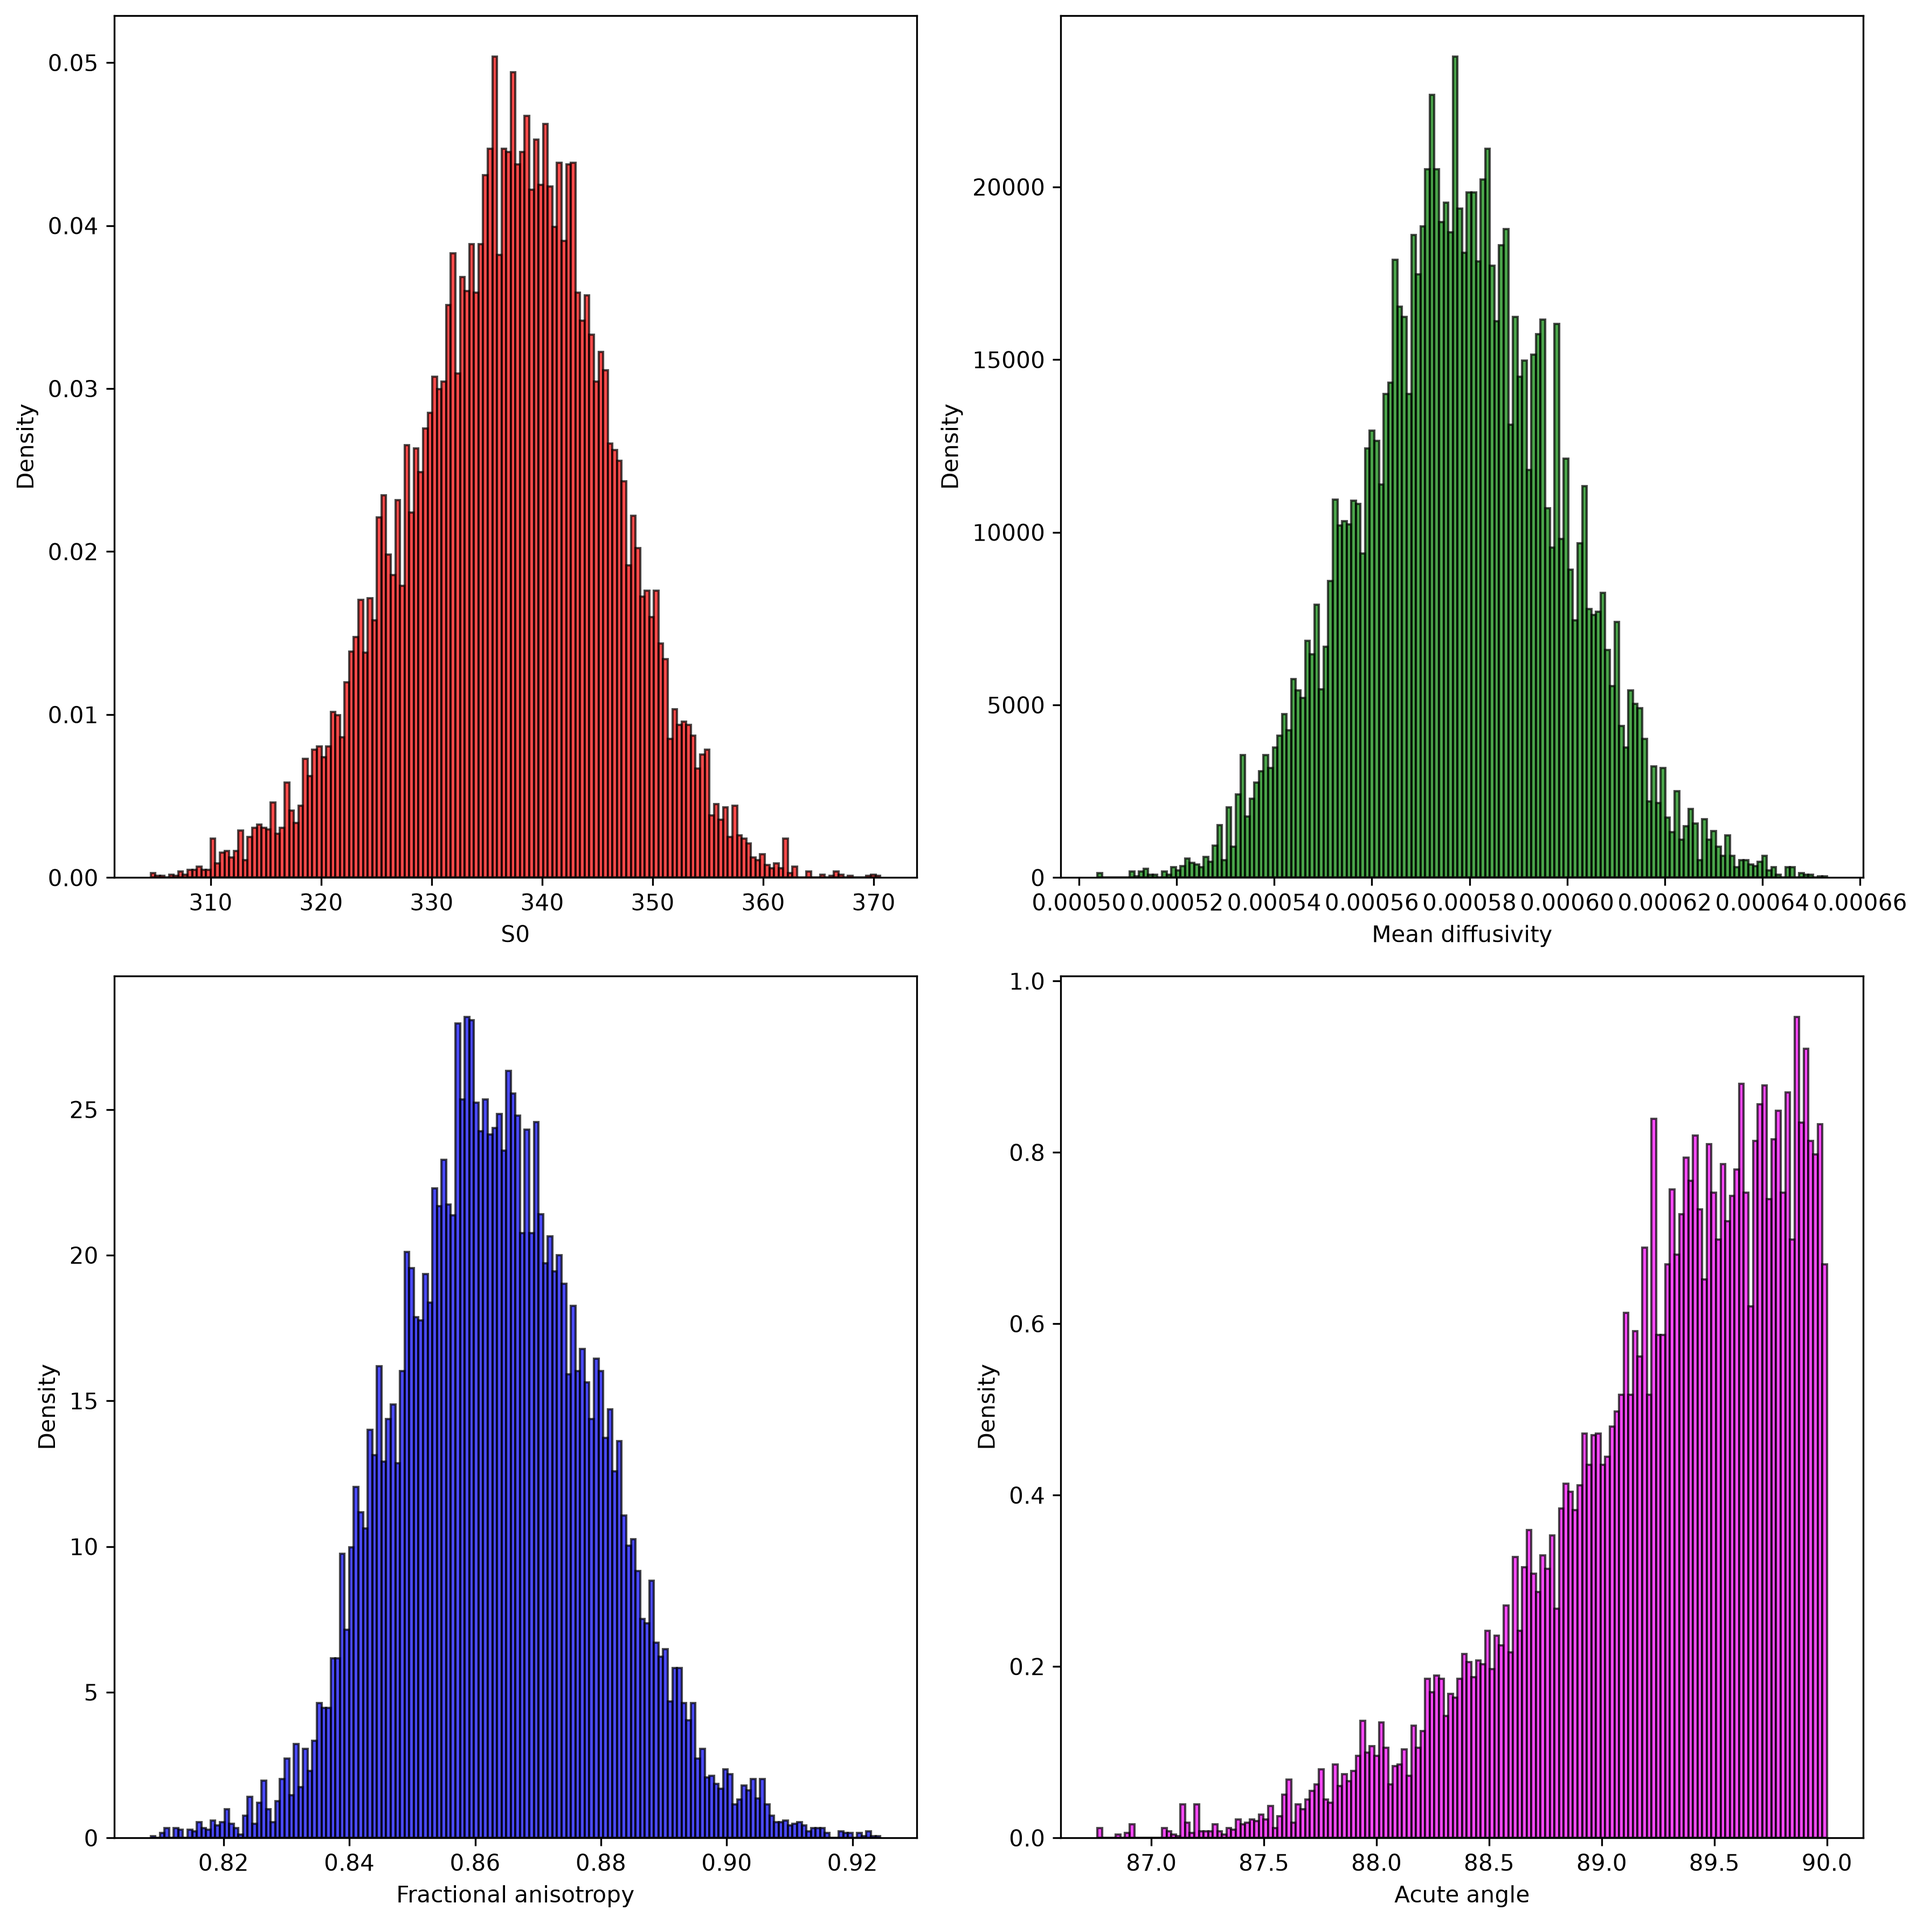
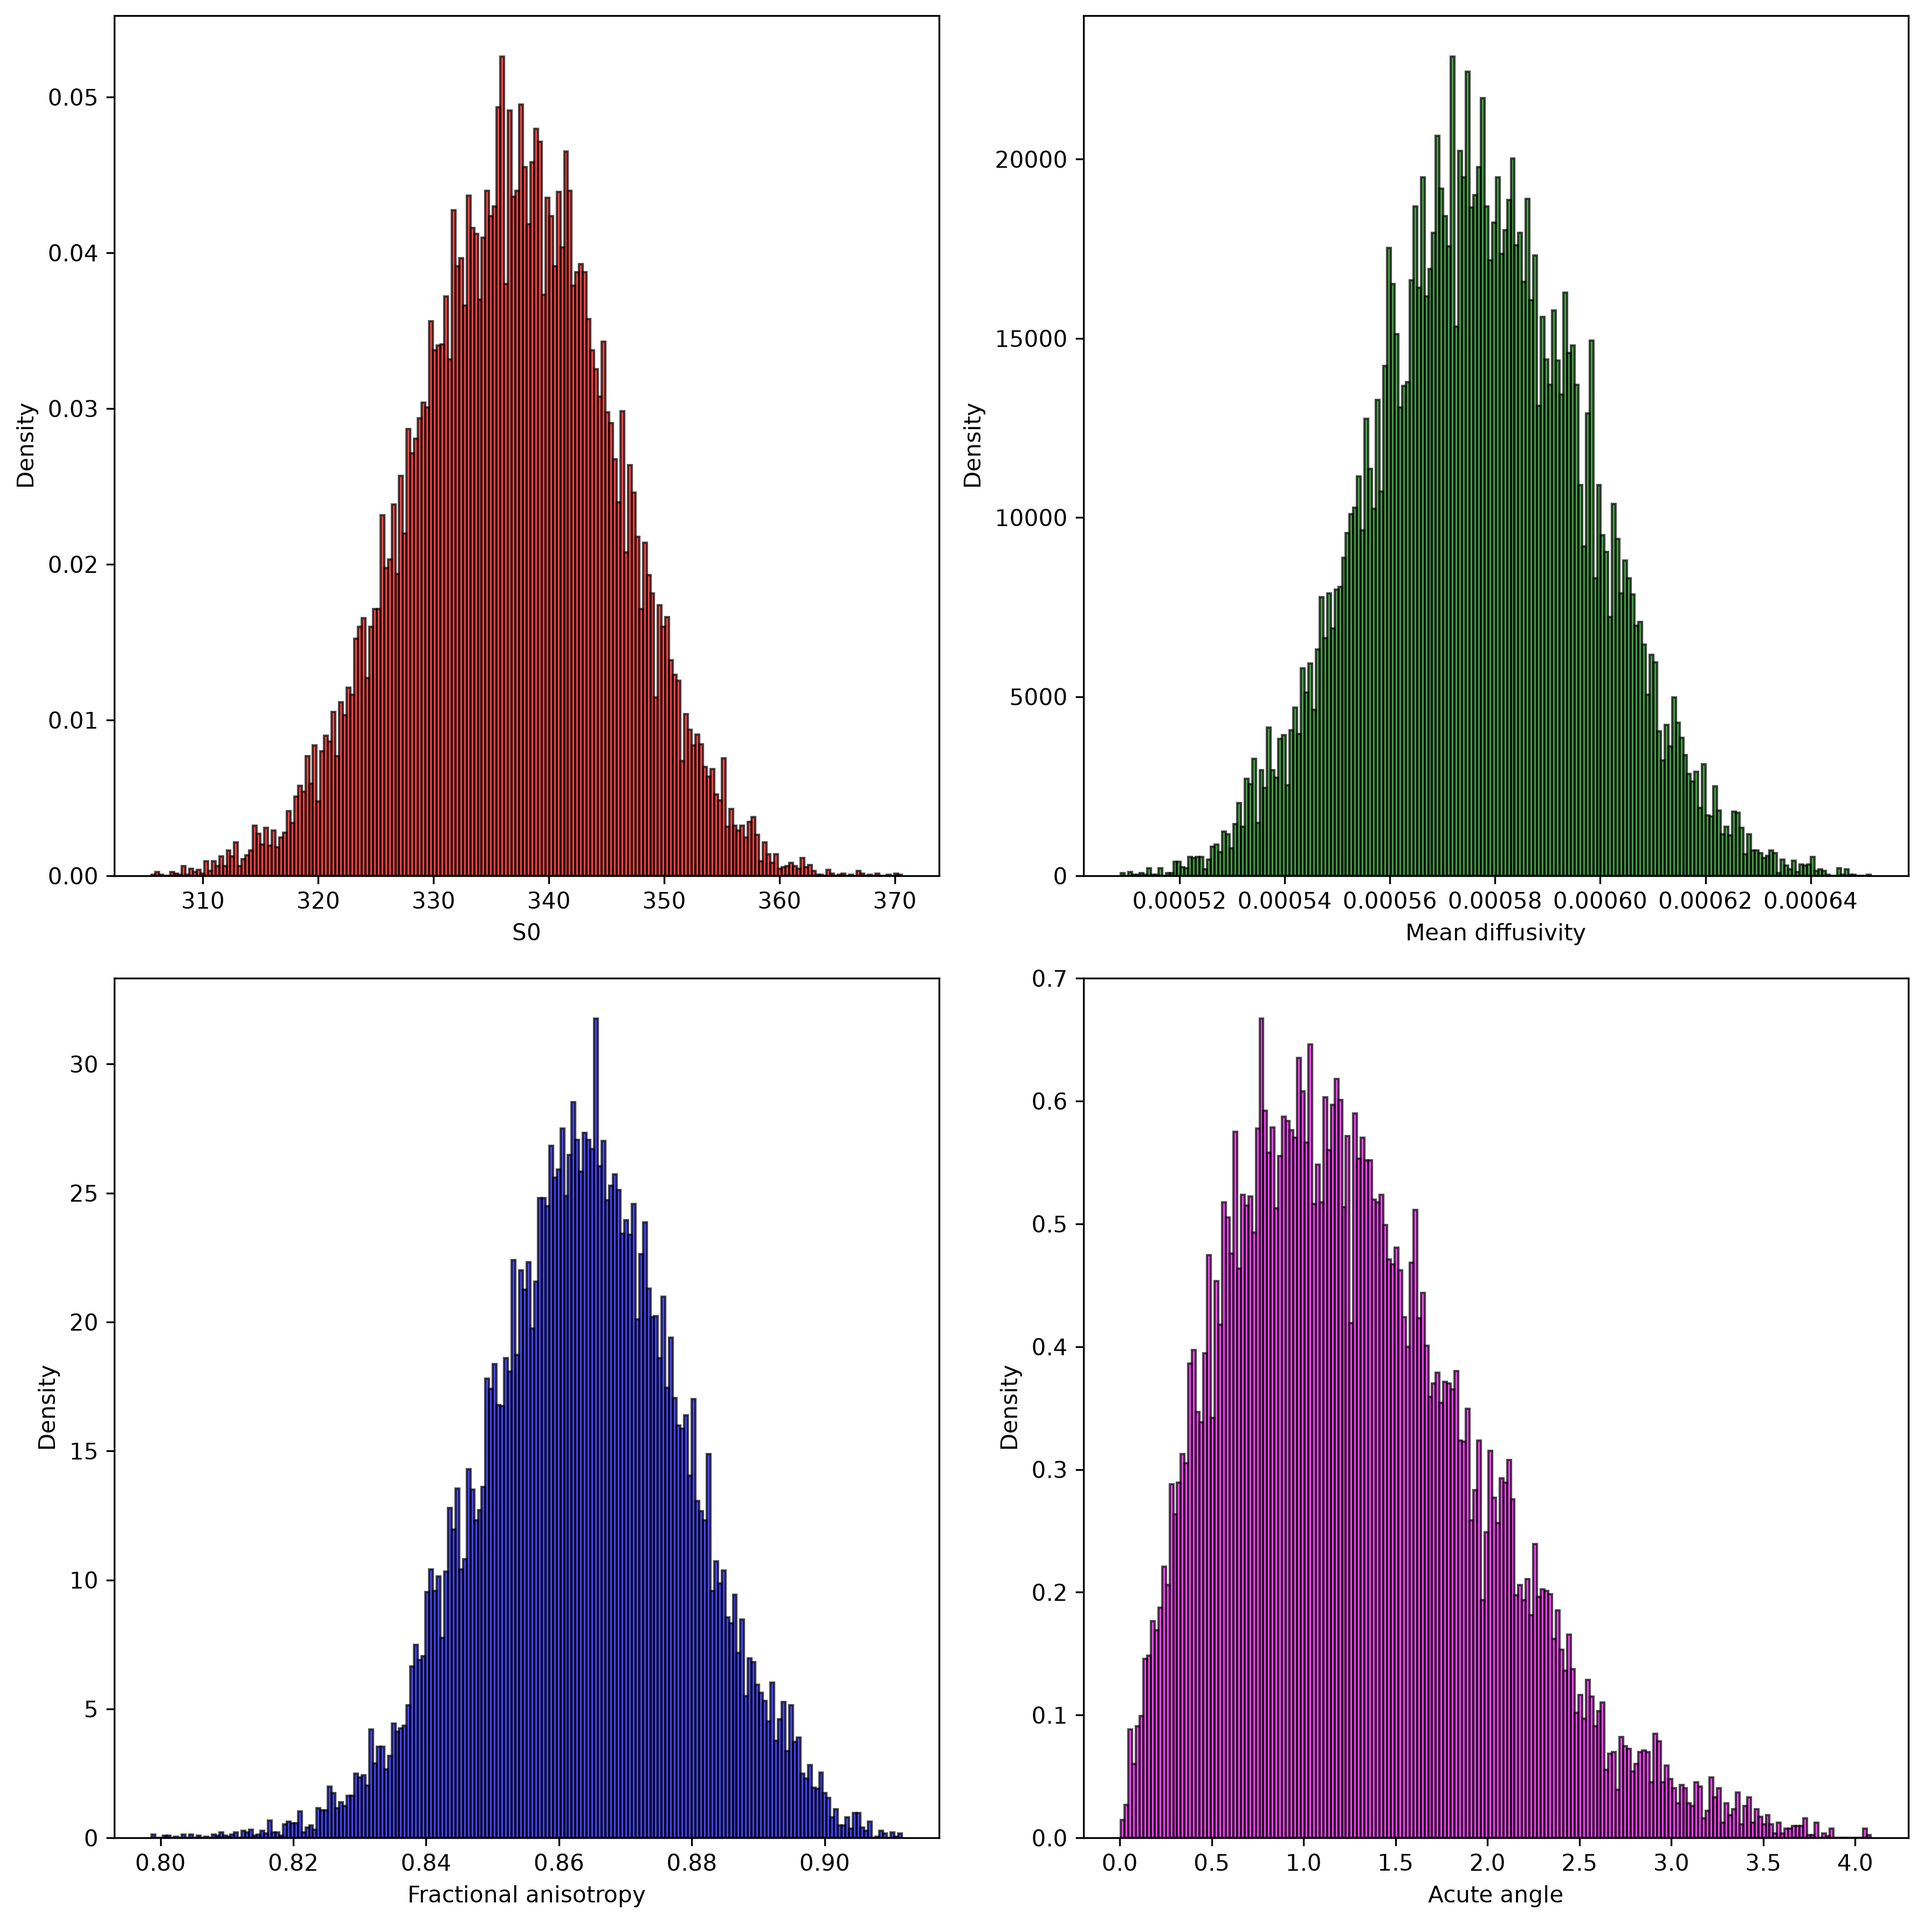
changed some parameters and added preprocessing code

diff --git a/preprocessing_apml.py b/preprocessing_apml.py
@@ -1,0 +1,189 @@
+"""
+Initial data exploration for the APML diffusion MRI project.
+
+This script:
+1. Loads the MRI measurements from one voxel.
+2. Inspects the provided DTI point estimate.
+3. Constructs and checks the diffusion tensor.
+4. Connects the gradient information to x in the model.
+5. Predicts the MRI signals using the point estimate.
+6. Compares the predictions with the measured signals.
+"""
+
+import numpy as np
+import matplotlib.pyplot as plt
+
+from dmri_project import get_preprocessed_data, compute_D
+
+
+# ============================================================
+# 1. Load the data
+# ============================================================
+
+y, point_estimate, gtab = get_preprocessed_data()
+
+print("\n--- DATASET ---")
+print("Number of MRI measurements:", len(y))
+print("Shape of y:", y.shape)
+print("First ten measured signals:")
+print(y[:10])
+
+
+# ============================================================
+# 2. Inspect the provided point estimate
+# ============================================================
+
+S0_init, evals_init, evecs_init = point_estimate
+
+print("\n--- INITIAL POINT ESTIMATE ---")
+print("Initial S0:")
+print(S0_init)
+
+print("\nEigenvalues:")
+print(evals_init)
+
+print("\nEigenvectors:")
+print(evecs_init)
+
+
+# ============================================================
+# 3. Construct the diffusion tensor
+#
+# D = V Lambda V^T
+# ============================================================
+
+D_init = compute_D(evals_init, evecs_init).squeeze()
+
+print("\n--- DIFFUSION TENSOR ---")
+print("Initial diffusion tensor D:")
+print(D_init)
+
+print("\nShape of D:", D_init.shape)
+print("Is D symmetric?", np.allclose(D_init, D_init.T))
+
+D_eigenvalues = np.linalg.eigvalsh(D_init)
+
+print("Eigenvalues calculated from D:")
+print(D_eigenvalues)
+
+print("Are all eigenvalues positive?", np.all(D_eigenvalues > 0))
+
+
+# ============================================================
+# 4. Inspect the MRI measurement settings
+# ============================================================
+
+print("\n--- MEASUREMENT SETTINGS ---")
+print("Shape of b-values:", gtab.bvals.shape)
+print("Shape of b-vectors:", gtab.bvecs.shape)
+
+print("\nFirst 20 b-values:")
+print(gtab.bvals[:20])
+
+print("\nFirst five b-vectors:")
+print(gtab.bvecs[:5])
+
+
+# ============================================================
+# 5. Construct q
+#
+# q corresponds to x in the equation:
+#
+# S(x) = S0 * exp(-x^T D x)
+# ============================================================
+
+q = np.sqrt(gtab.bvals[:, None]) * gtab.bvecs
+
+print("\n--- MODEL INPUT q ---")
+print("Shape of q:", q.shape)
+print("First five rows of q:")
+print(q[:5])
+
+
+# ============================================================
+# 6. Predict all 160 MRI signals
+# ============================================================
+
+quadratic_terms = np.einsum(
+    "ni,ij,nj->n",
+    q,
+    D_init,
+    q,
+)
+
+predicted_y = S0_init * np.exp(-quadratic_terms)
+
+print("\n--- PREDICTED SIGNALS ---")
+print("Shape of predicted_y:", predicted_y.shape)
+
+print("\nFirst ten measured signals:")
+print(y[:10])
+
+print("\nFirst ten predicted signals:")
+print(predicted_y[:10])
+
+
+# ============================================================
+# 7. Inspect measurements with nonzero diffusion weighting
+# ============================================================
+
+nonzero_indices = np.where(gtab.bvals > 0)[0]
+selected_indices = nonzero_indices[:10]
+
+print("\n--- FIRST TEN DIFFUSION-WEIGHTED MEASUREMENTS ---")
+print("Measurement indices:")
+print(selected_indices)
+
+print("\nb-values:")
+print(gtab.bvals[selected_indices])
+
+print("\nMeasured signals:")
+print(y[selected_indices])
+
+print("\nPredicted signals:")
+print(predicted_y[selected_indices])
+
+
+# ============================================================
+# 8. Calculate simple prediction errors
+# ============================================================
+
+errors = y - predicted_y
+
+mean_error = np.mean(errors)
+rmse = np.sqrt(np.mean(errors**2))
+
+print("\n--- PREDICTION ERRORS ---")
+print("Mean error:", mean_error)
+print("Root mean squared error:", rmse)
+print("Assumed noise standard deviation:", 29)
+
+
+# ============================================================
+# 9. Plot measured and predicted signals
+# ============================================================
+
+plt.figure(figsize=(11, 5))
+
+plt.plot(
+    y,
+    "o",
+    markersize=4,
+    alpha=0.7,
+    label="Measured signal",
+)
+
+plt.plot(
+    predicted_y,
+    "-",
+    linewidth=2,
+    label="Predicted signal",
+)
+
+plt.xlabel("Measurement number")
+plt.ylabel("MRI signal")
+plt.title("Measured and predicted MRI signals")
+plt.legend()
+plt.grid(alpha=0.2)
+plt.tight_layout()
+plt.show()

diff --git a/dmri_project.py b/dmri_project.py
@@ -733,7 +733,7 @@ def main():
     # Run Metropolis–Hastings and plot results
     #S0_mh, evals_mh, evecs_mh = metropolis_hastings(force_recompute=False)
     S0_mh, evals_mh, evecs_mh = metropolis_hastings(
-    n_samples=30000,
+    n_samples=50000,
     point_estimate=point_estimate,
     prior=prior,
     likelihood=likelihood,
@@ -743,7 +743,7 @@ def main():
     seed=42,
     force_recompute=True,
     )
-    burn_in = 5000
+    burn_in = 10000
     plot_results(S0_mh[burn_in:], evals_mh[burn_in:], evecs_mh[burn_in:, :, :], evec_principal, method="mh")
 
     # Run Importance Sampling and plot results
@@ -802,7 +802,7 @@ def plot_results(S0, evals, evecs, evec_ref, weights=None, method=""):
     fa = dti.fractional_anisotropy(evals).squeeze()
 
     # Compute acute angle between estimated and reference eigenvectors
-    angle = 360/(2*np.pi) * np.arccos(np.abs(np.dot(evecs[:, :, 2], evec_ref)))
+    angle = 360/(2*np.pi) * np.arccos(np.abs(np.dot(evecs[:, :, 0], evec_ref)))
     
     # Create 2x2 grid of histograms
     fig, axes = plt.subplots(2, 2, figsize=(12, 12), sharey=False)
